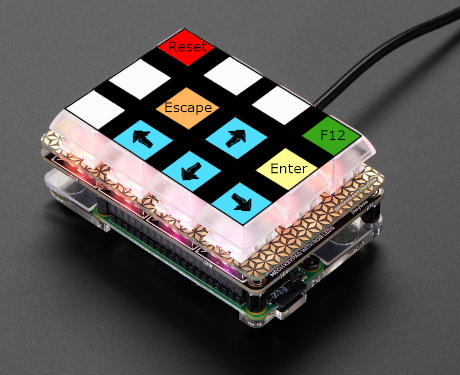
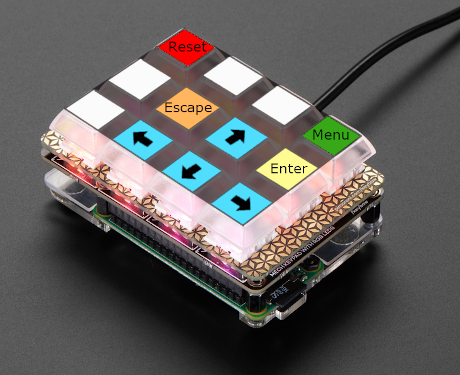
Tweak key layout image, link to MiSTer addons

diff --git a/README.md b/README.md
@@ -1,6 +1,6 @@
-# Keybow for MiSTeR
+# Keybow for MiSTer
 
-This is my personal setup for using a Keybow mini mechanical keyboard to control the On Screen Display of my MiSTeR. Though the MiSTeR can just as easily be operated with any usb keyboard, I found the small form factor and macro functionality to be especially convenient for my needs.
+This is my personal setup for using a Keybow mini mechanical keyboard to control the On Screen Display of my [MiSTer](https://misteraddons.com/). Though the MiSTer can just as easily be operated with any usb keyboard, I found the Keybow's small form factor and macro functionality to be especially convenient for my needs.
 
 ## Purchase
 
@@ -13,7 +13,7 @@ Any micro SD card will work for the OS.
 ![](assets/key-layout.png)
 
 * Reset: presses the key combo for resetting the MiSTer
-* F12: bring up the OSD menu
+* Menu: presses F12 to display the OSD menu
 * Escape: exit menus
 * Enter: confirm a choice in the menu
 * Arrow keys: navigation
